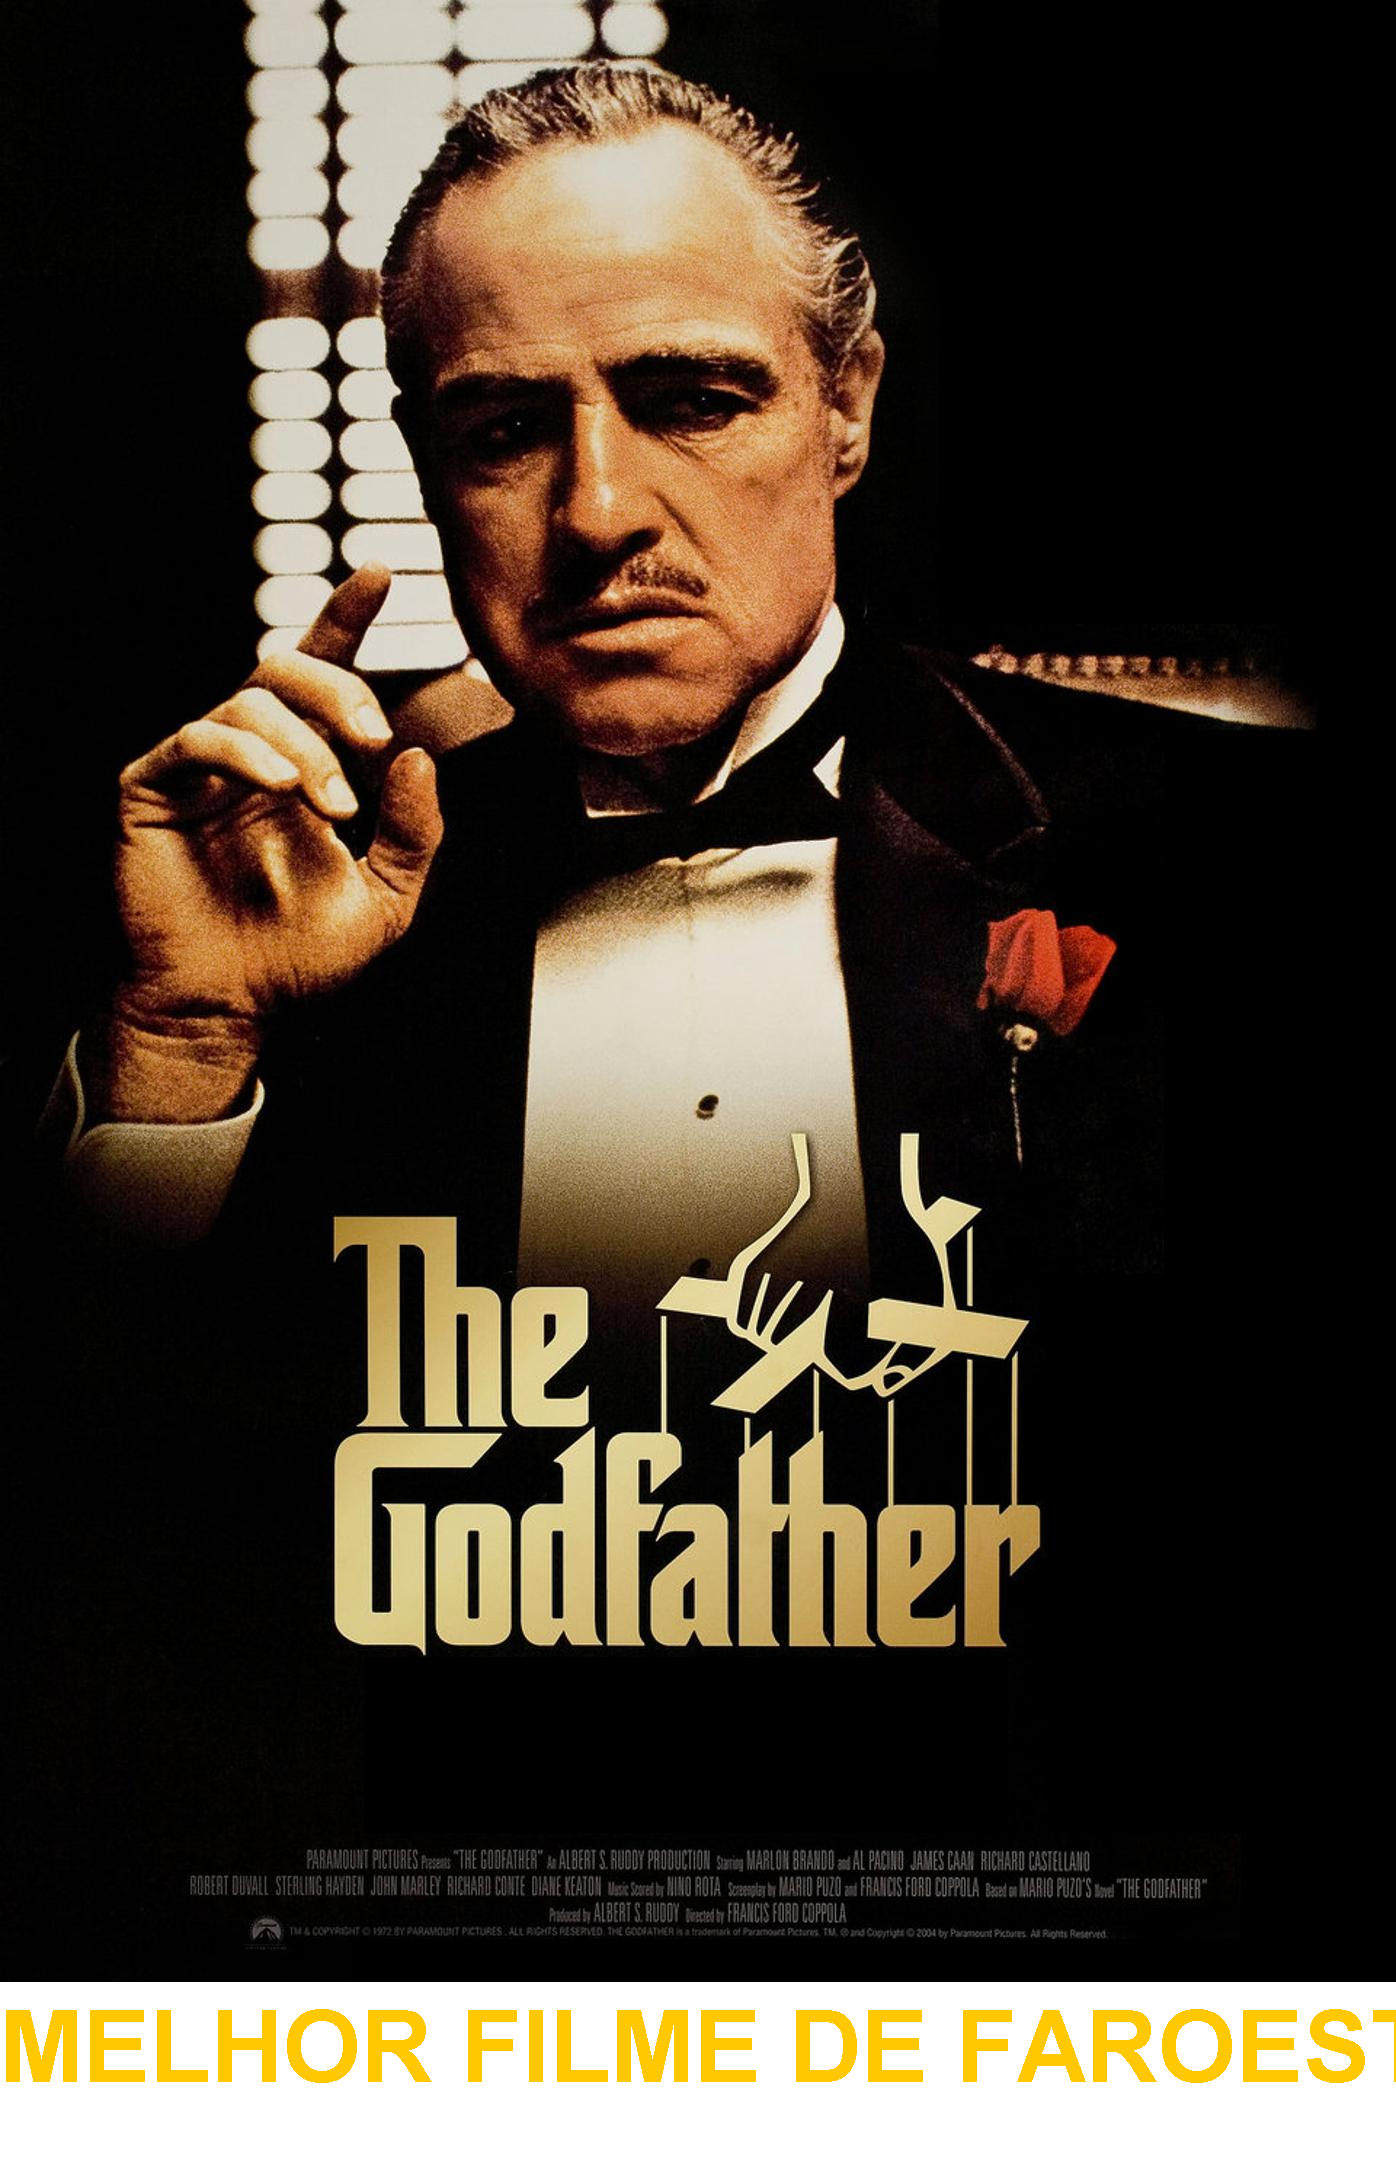
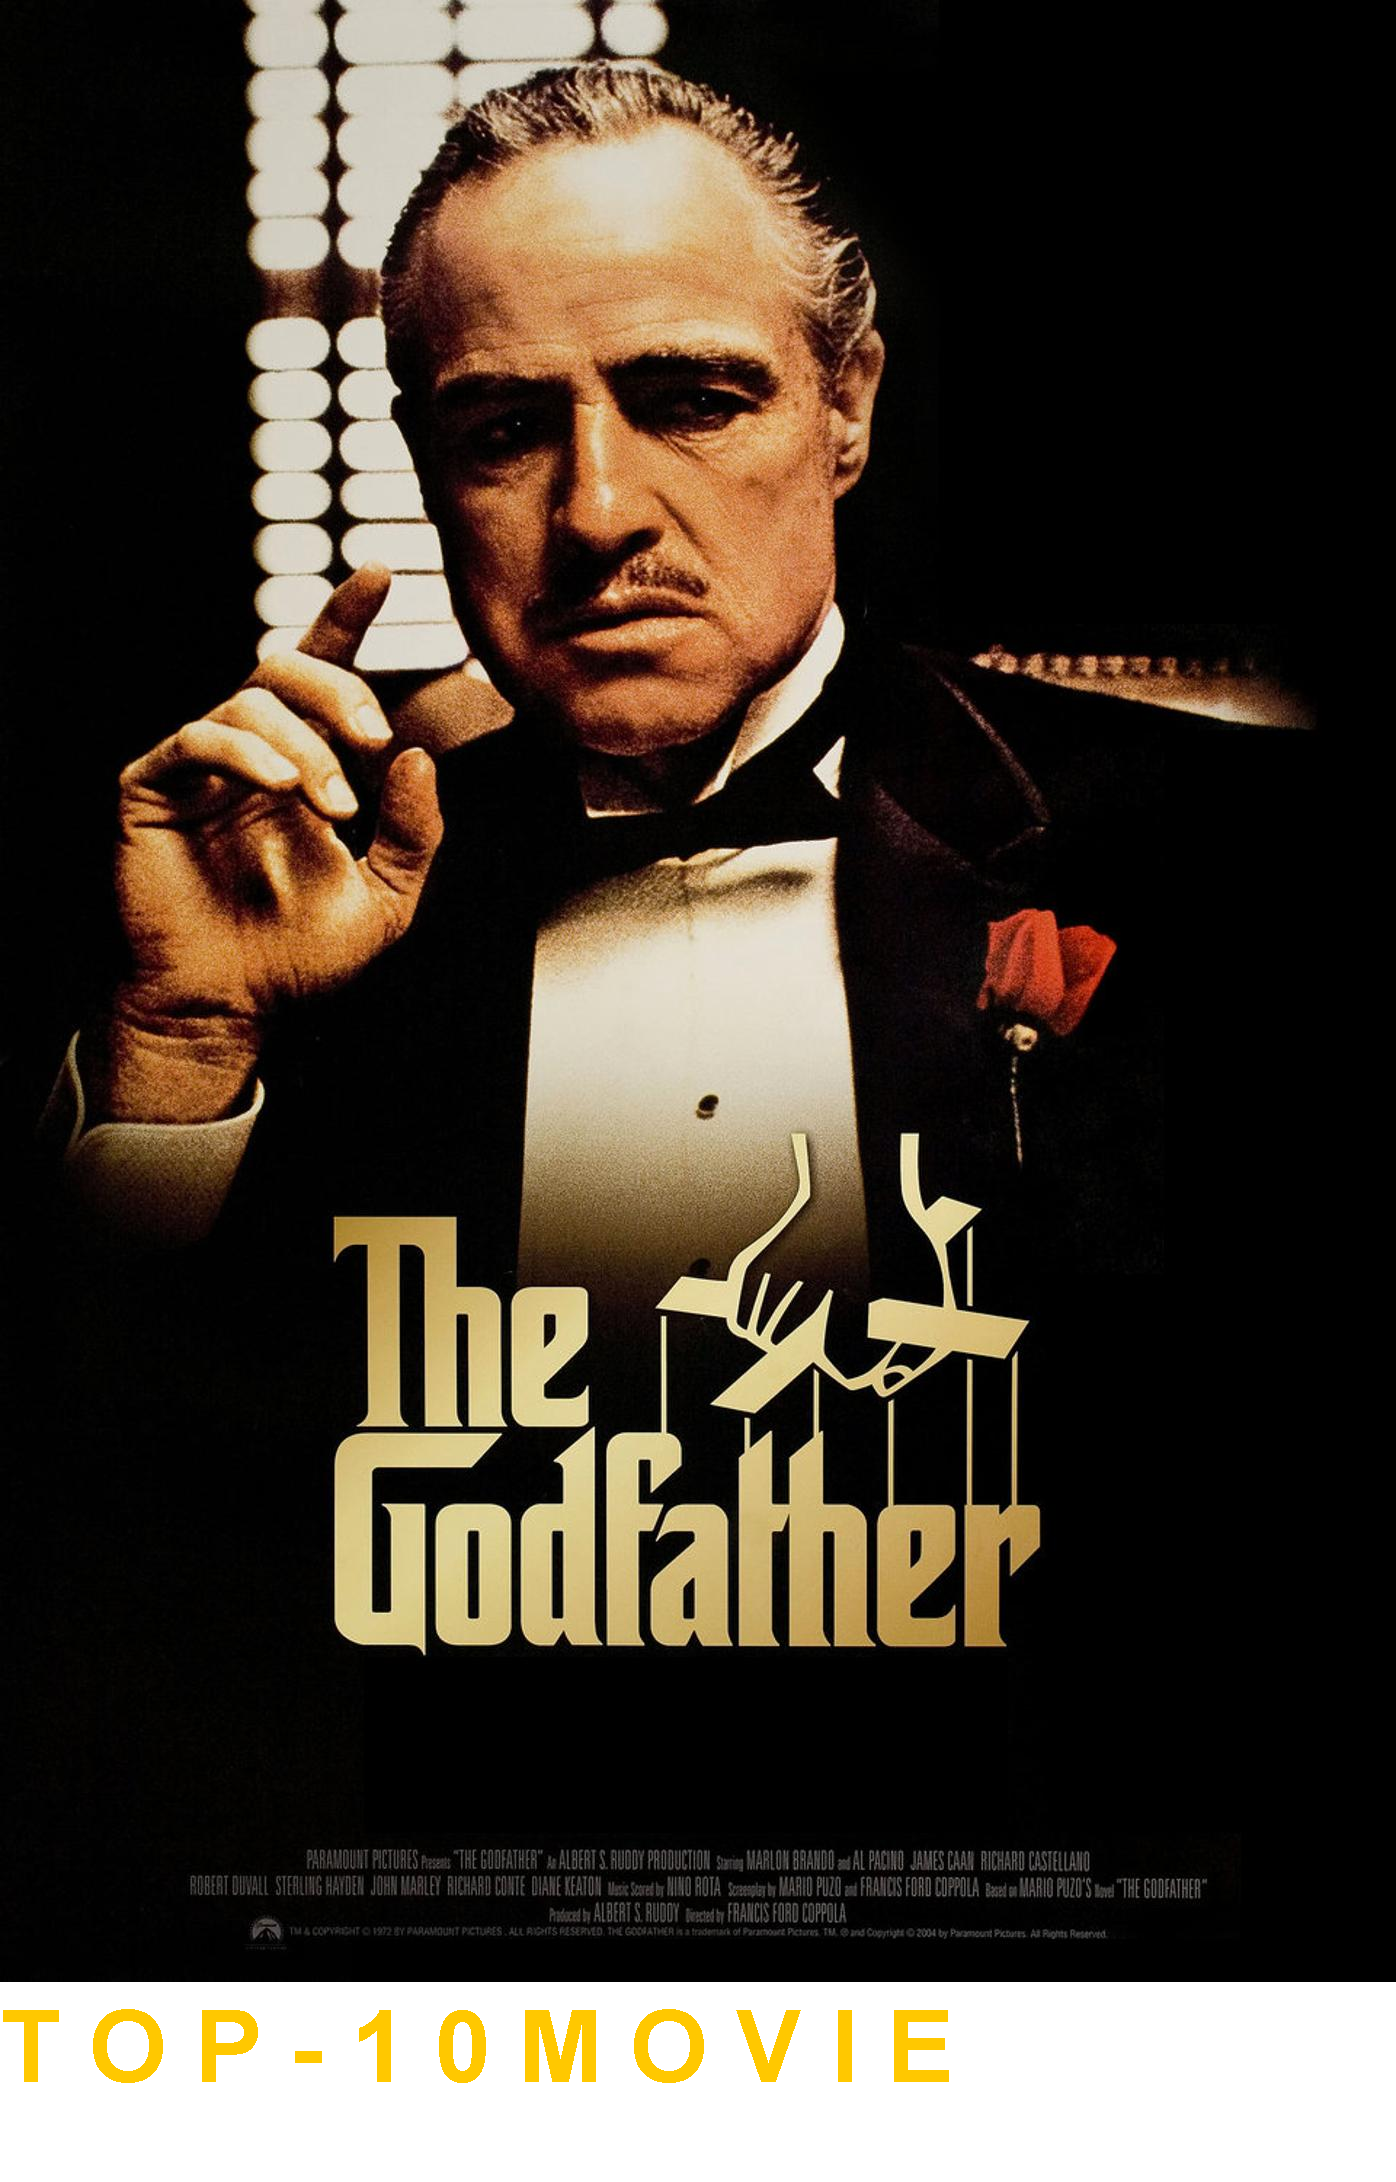
gerando imagens com novo texto no rodapé

Changed region(s): [[0.0, 0.9038, 1.0, 0.9661]]

diff --git a/src/GeradoraDeFigurinhas.java b/src/GeradoraDeFigurinhas.java
@@ -39,7 +39,7 @@ public class GeradoraDeFigurinhas {
         graphics.setFont(font);
         // escrever uma frase na imagem
 
-        graphics.drawString("MELHOR FILME DE FAROESTE !!!!", 0, novaaltura-100);
+        graphics.drawString("T O P - 1 0 M O V I E ", 0, novaaltura-100);
 
         // escrever a nova imagem em um arquivo
 
